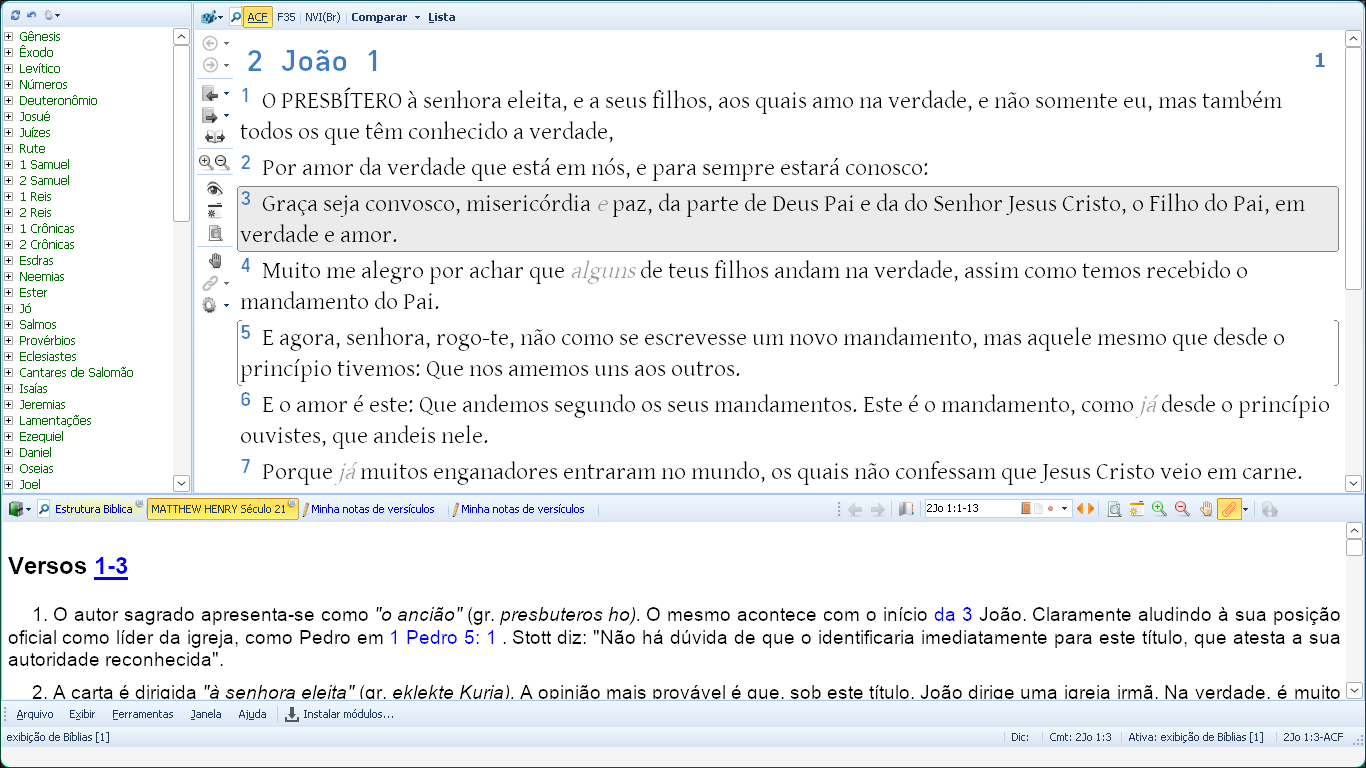
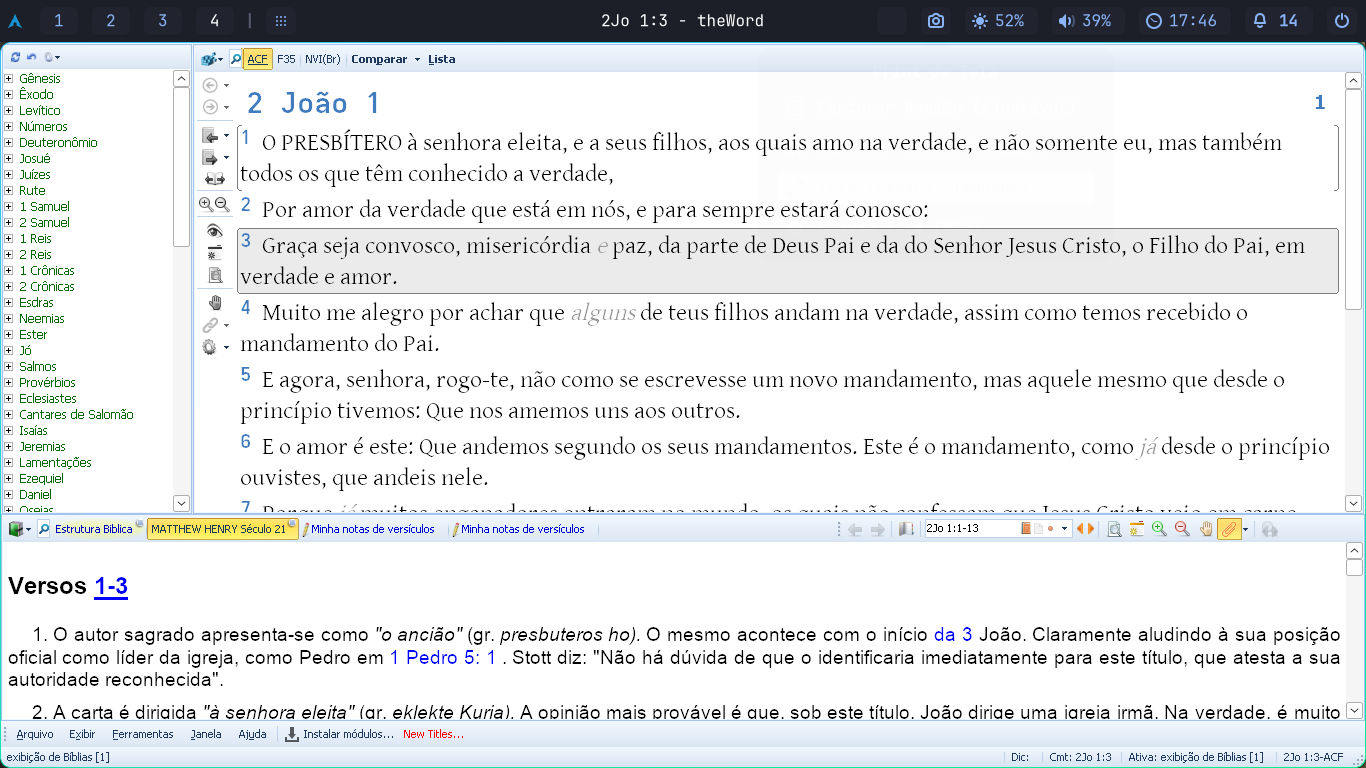
Postando solução para a composição nativa do theWord no Hyprland 01.

Changed region(s): [[0.0, 0.0, 1.0, 1.0], [0.9839, 0.375, 1.0, 0.4062]]

diff --git a/content/blog/theword-no-hyprland-via-wine.md b/content/blog/theword-no-hyprland-via-wine.md
@@ -10,7 +10,7 @@ published: true
 O **theWord** é um dos softwares de estudo bíblico mais completos do ecossistema Windows. Ao executá-lo no Arch Linux com Hyprland via Wine, a aplicação não entra no fluxo nativo de composição (*tiling*) e apresenta três comportamentos indesejados:
 
 1. **Janela-mãe ao fundo:** Uma janela secundária com o título `theWord` é renderizada ao fundo, ocupando a metade lateral da tela.
-2. **Sobreposição por foco em vez de composição:** A janela principal de leitura (cujo título varia conforme o texto, ex.: `2Jo 1:1 - theWord`) sobrepõe a janela-mãe em modo flutuante clássico (*floating z-order*), competindo por foco visual em vez de ser gerenciada pelo Hyprland.
+2. **Sobreposição por foco em vez de composição:** A janela principal de leitura (cujo título varia conforme o texto, ex.: `2Jo 1:3 - theWord`) sobrepõe a janela-mãe em modo flutuante clássico (*floating z-order*), competindo por foco visual em vez de ser gerenciada pelo Hyprland.
 3. **Área vertical incompleta:** A janela de leitura não preenche todo o espaço vertical da tela, iniciando com um deslocamento de 18 pixels no topo e deixando uma faixa visível do papel de parede.
 
 ## A Causa do Problema
